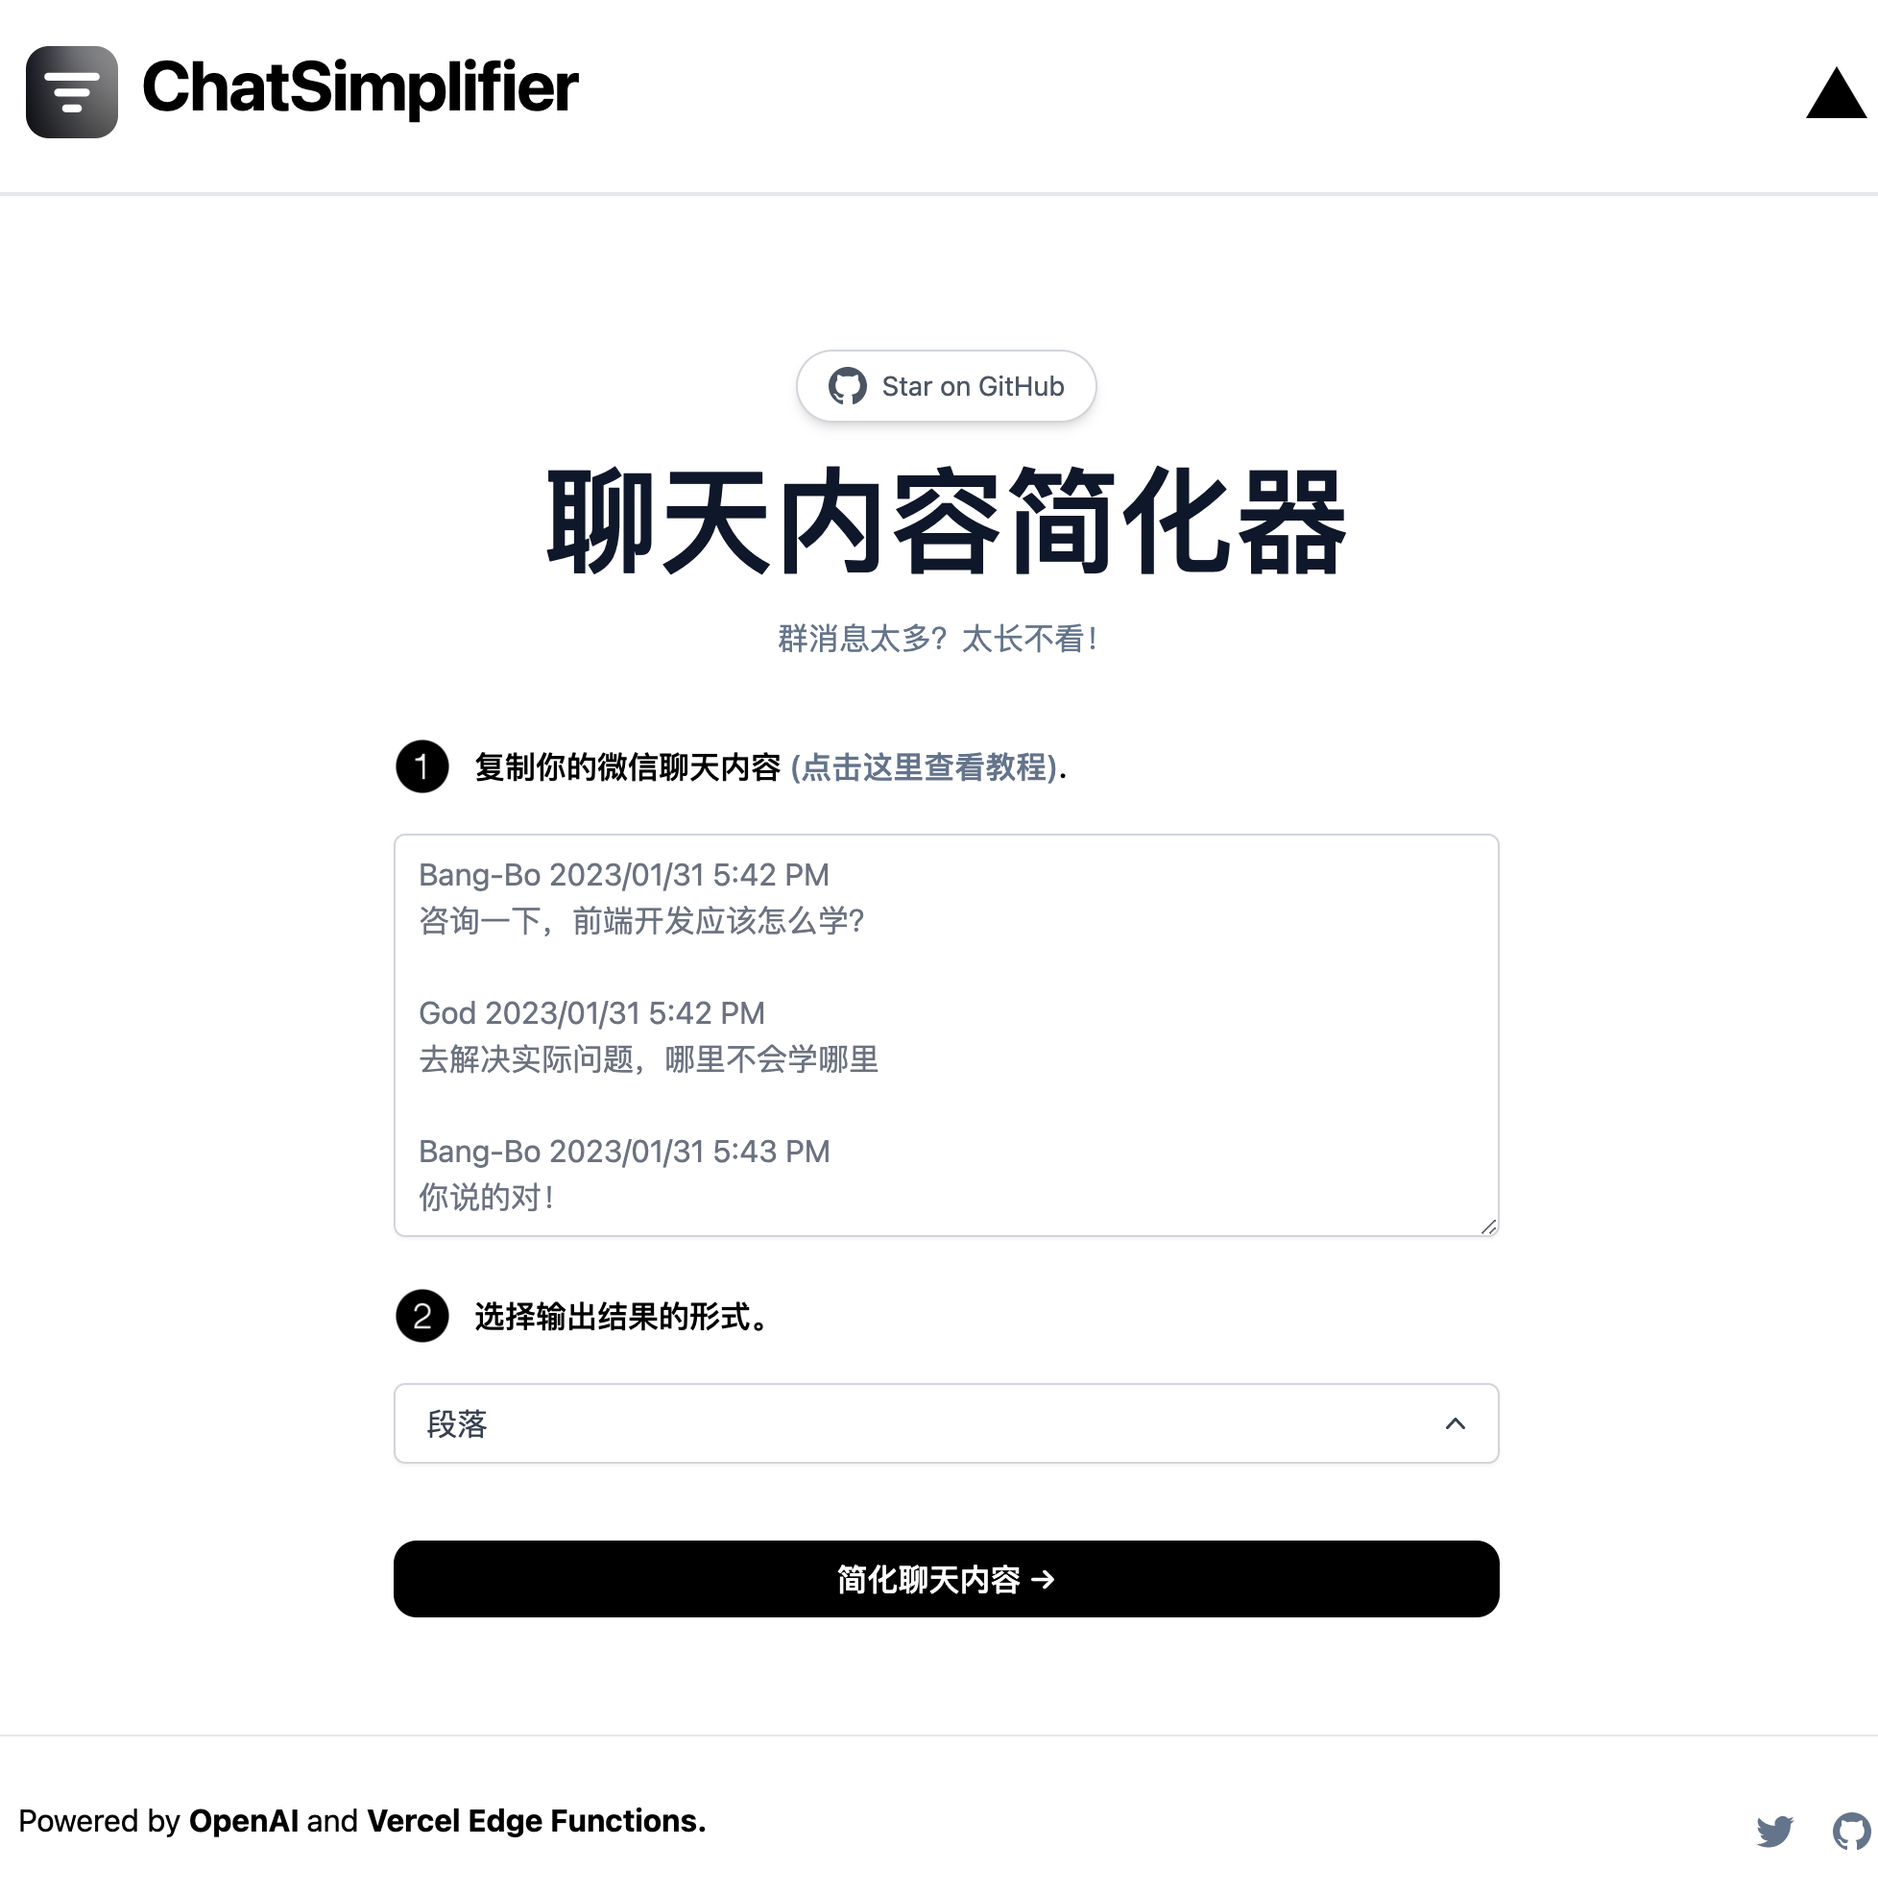
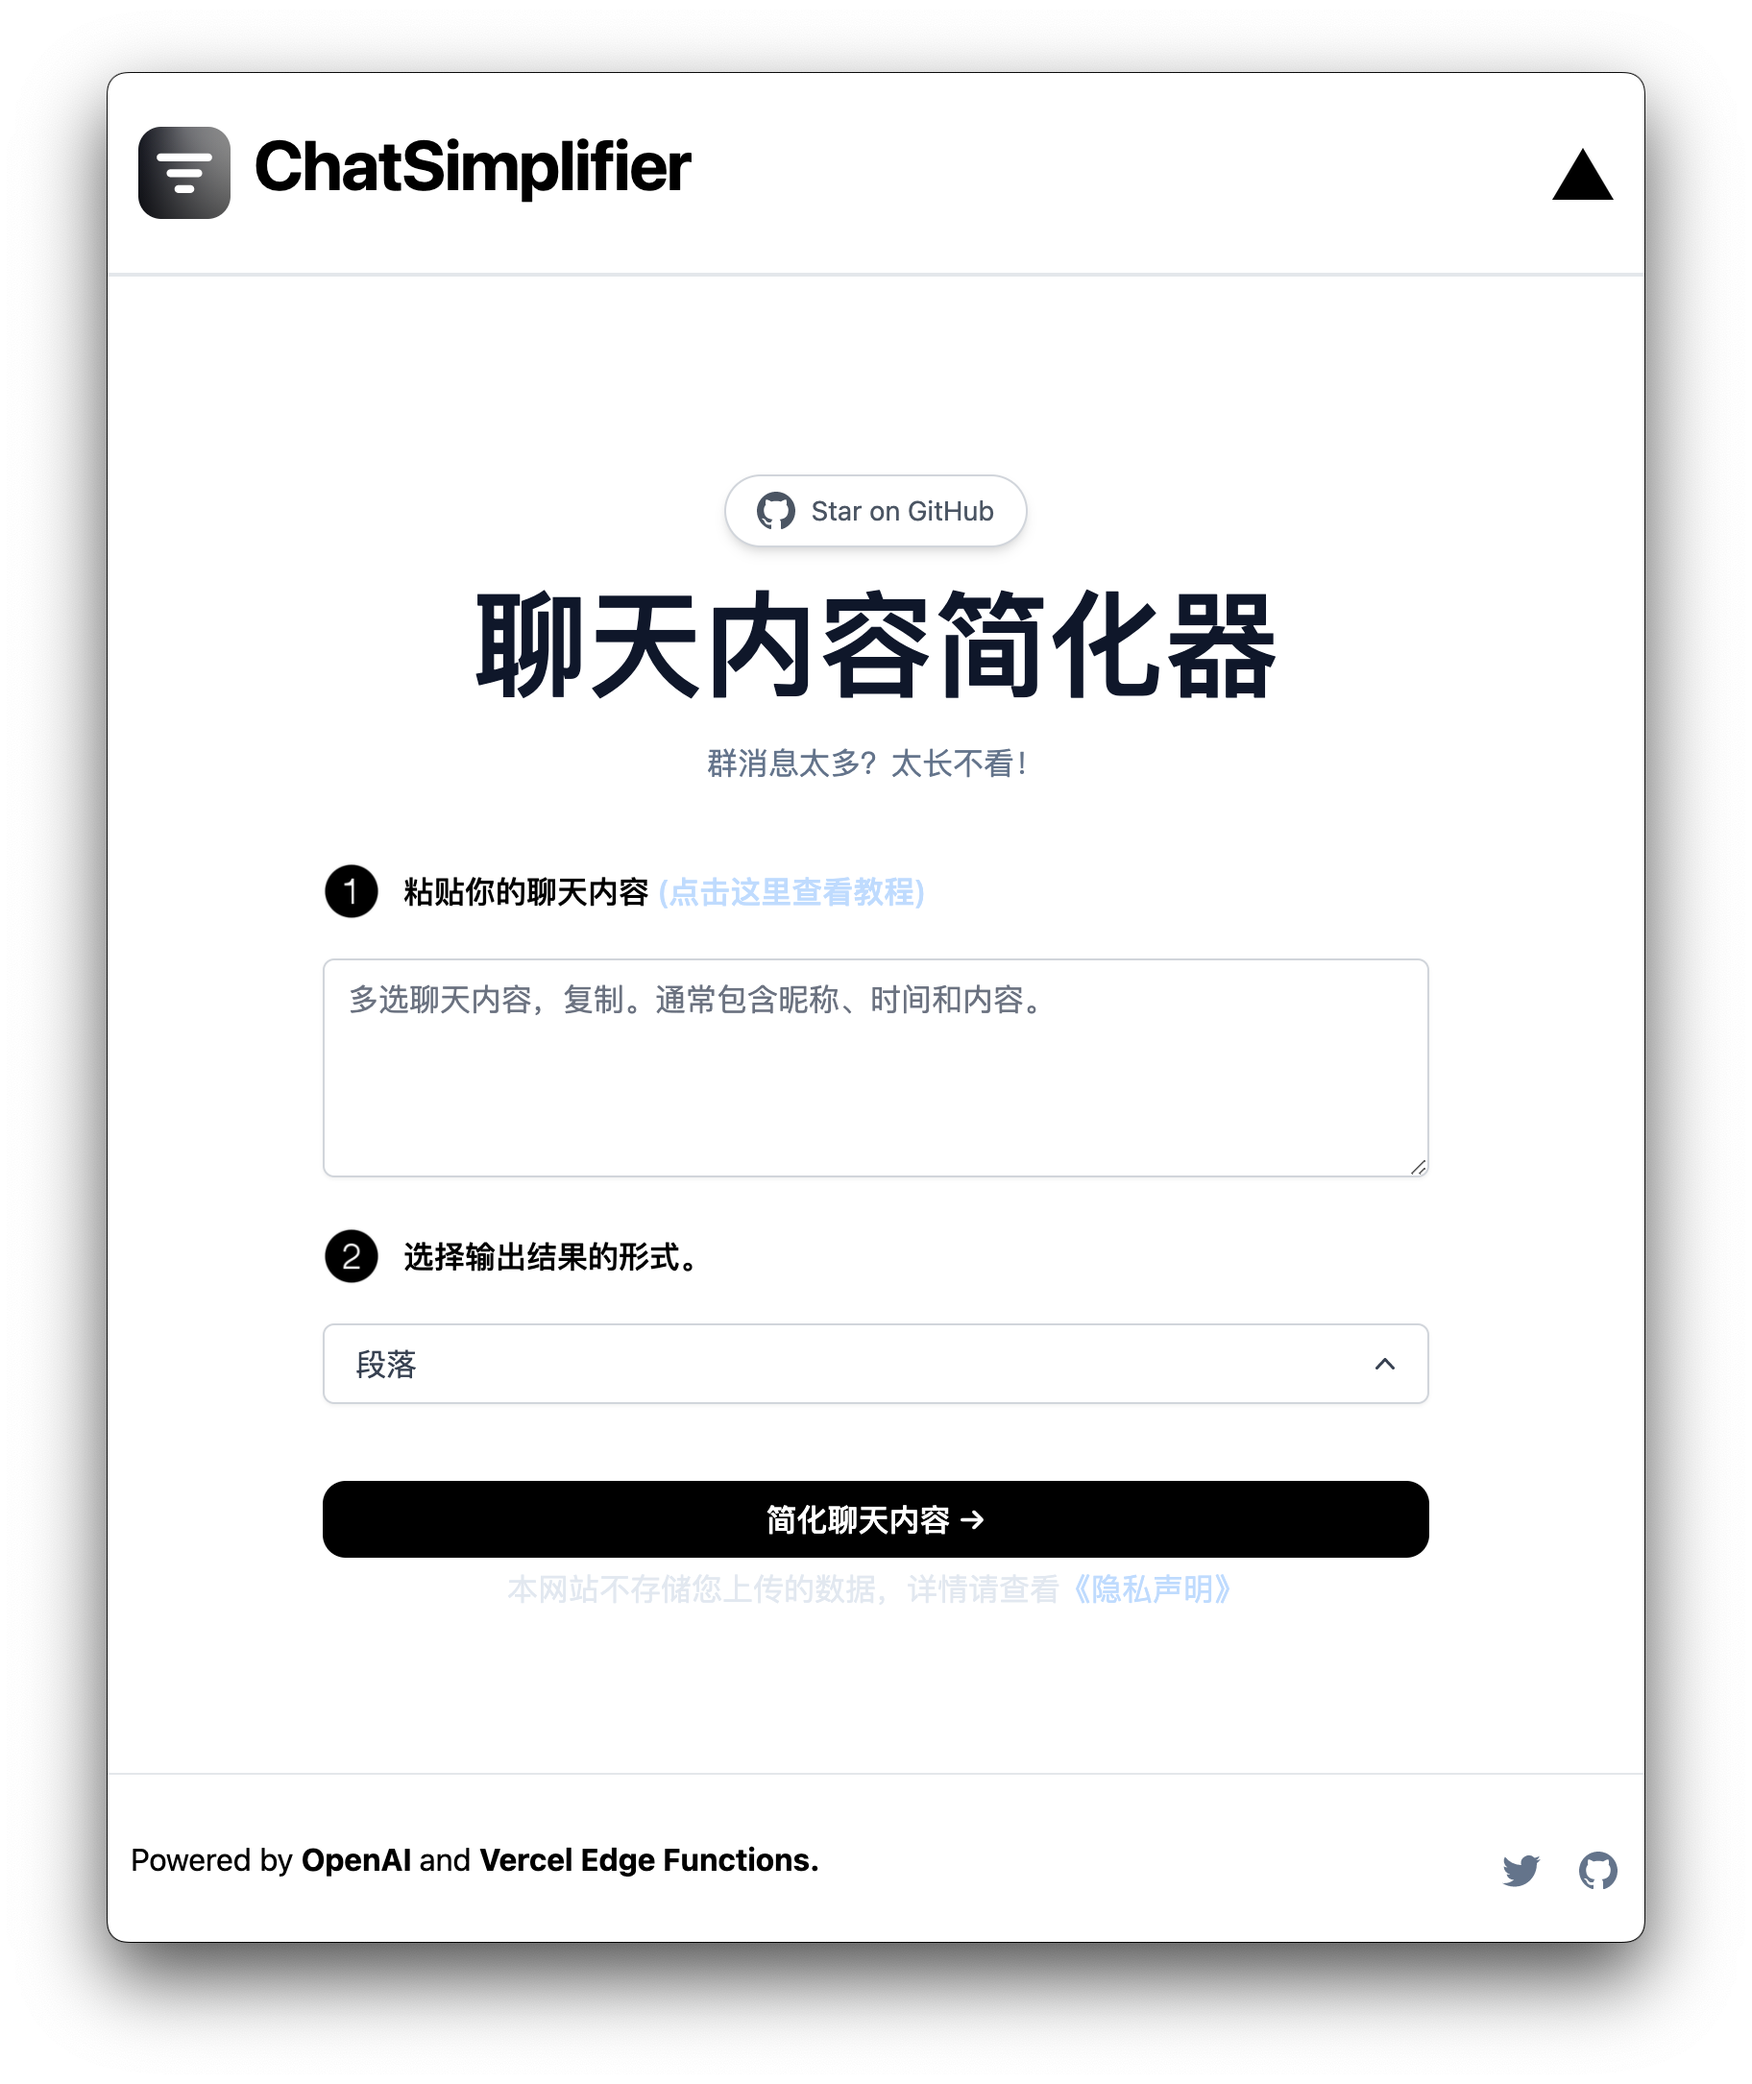
chore: update screenshot

diff --git a/pages/index.tsx b/pages/index.tsx
@@ -95,7 +95,7 @@ const Home: NextPage = () => {
               className="mb-5 sm:mb-0"
             />
             <p className="text-left font-medium">
-              复制你的微信聊天内容{" "}
+              粘贴你的聊天内容{" "}
               <span className="text-blue-200 hover:text-blue-400">
                 <a
                   href="https://github.com/zhengbangbo/chat-simplifier/wiki/Help"
@@ -108,10 +108,10 @@ const Home: NextPage = () => {
           <textarea
             value={chat}
             onChange={(e) => setChat(e.target.value)}
-            rows={8}
+            rows={4}
             className="w-full rounded-md border-gray-300 shadow-sm focus:border-black focus:ring-black my-5"
             placeholder={
-              "Bang-Bo 2023/01/31 5:42 PM\n咨询一下，前端开发应该怎么学？\n\nGod 2023/01/31 5:42 PM\n去解决实际问题，哪里不会学哪里\n\nBang-Bo 2023/01/31 5:43 PM\n你说的对！"
+              "多选聊天内容，复制。通常包含昵称、时间和内容。"
             }
           />
           <div className="flex mb-5 items-center space-x-3">
